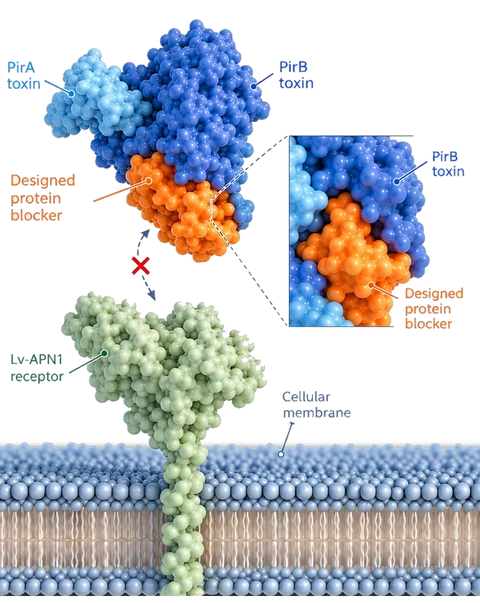
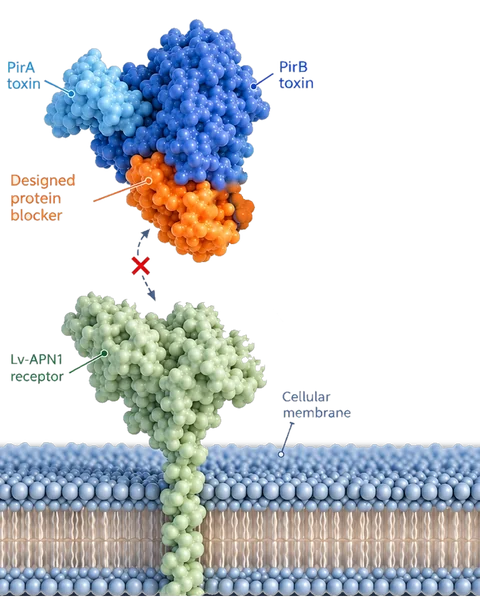
Add files via upload

Changed region(s): [[0.5938, 0.209, 0.9688, 0.5672], [0.4375, 0.2687, 0.5312, 0.4179], [0.5312, 0.2388, 0.5625, 0.2687]]

diff --git a/assets/css/site.css b/assets/css/site.css
@@ -525,23 +525,26 @@ section { position: relative; padding: clamp(72px, 10vw, 128px) 0; }
 .data-sources a { color: var(--on-dark); }
 @media (max-width: 960px) { .data-grid { grid-template-columns: 1fr; } }
 
-/* ---------- Mechanism compare slider ---------- */
-.compare { max-width: 560px; margin: 0 auto; }
+/* ---------- Mechanism of action: A fades into B ---------- */
+.compare { max-width: 560px; margin: 0 auto; --fa: 1; --fb: 0; }
 .compare-stage { position: relative; aspect-ratio: 820 / 1030; border-radius: 16px; overflow: hidden; background: #F7F9FC; border: 1px solid var(--mist); user-select: none; touch-action: pan-y; cursor: ew-resize; }
-.compare-stage img { position: absolute; inset: 0; width: 100%; height: 100%; object-fit: contain; }
-.compare-b { clip-path: inset(0 0 0 var(--pos)); }
-.compare-handle { position: absolute; top: 0; bottom: 0; left: var(--pos); width: 2px; translate: -1px 0; background: #1CD5E7; box-shadow: 0 0 12px rgba(28, 213, 231, .9); pointer-events: none; }
-.compare-handle span { position: absolute; top: 50%; left: 50%; width: 38px; height: 38px; translate: -50% -50%; border-radius: 50%; background: #0B1424; border: 2px solid #1CD5E7; box-shadow: 0 6px 18px rgba(6, 11, 24, .4); }
-.compare-handle span::before { content: "‹ ›"; position: absolute; inset: 0; display: grid; place-items: center; color: #1CD5E7; font: 700 .95rem/1 var(--head); letter-spacing: 2px; }
-.compare-tag { position: absolute; top: 12px; font: 700 .85rem/1 var(--head); color: #fff; background: rgba(11, 20, 36, .8); padding: 7px 10px; border-radius: 8px; }
-.tag-a { left: 12px; } .tag-b { right: 12px; }
-.compare-range { width: 100%; margin: 14px 0 6px; accent-color: #1CD5E7; }
-.compare-legend { display: grid; grid-template-columns: 1fr auto 1fr; gap: 10px; align-items: start; }
-.compare-legend button { background: none; border: 0; padding: 0; text-align: left; cursor: pointer; font: 600 .86rem/1.35 var(--head); color: var(--ink); }
-.compare-legend button:last-child { text-align: right; }
-.compare-legend button:hover strong { color: #0E7490; }
-.compare-hint { font-size: .78rem; color: var(--slate); white-space: nowrap; padding-top: 2px; }
-.compare.anim .compare-b, .compare.anim .compare-handle { transition: clip-path 1.6s cubic-bezier(.4,.1,.2,1), left 1.6s cubic-bezier(.4,.1,.2,1); }
+.compare-stage img { position: absolute; inset: 0; width: 100%; height: 100%; object-fit: contain; pointer-events: none; -webkit-user-drag: none; user-select: none; }
+.compare-a { opacity: var(--fa); }
+.compare-b { opacity: var(--fb); }
+.compare.anim .compare-a, .compare.anim .compare-b, .compare.anim .compare-letter span, .compare.anim .compare-caption span { transition: opacity .9s ease; }
+.compare-letter { position: absolute; left: 14px; bottom: 14px; width: 40px; height: 40px; }
+.compare-letter span { position: absolute; inset: 0; display: grid; place-items: center; border-radius: 10px; background: #0B1424; color: #fff; font: 700 1.05rem/1 var(--head); box-shadow: 0 0 0 2px rgba(28, 213, 231, .5); }
+.compare-letter .la { opacity: var(--fa); }
+.compare-letter .lb { opacity: var(--fb); background: linear-gradient(135deg, #0B1424, #12324A); }
+.compare-bar { display: grid; grid-template-columns: auto 1fr auto; gap: 12px; align-items: center; margin-top: 14px; }
+.cb-end { font: 700 .85rem/1 var(--head); color: var(--ink); }
+.compare-range { width: 100%; margin: 0; accent-color: #1CD5E7; cursor: pointer; }
+.compare-caption { position: relative; margin: 10px 0 0; min-height: 2.8em; font: 600 .92rem/1.4 var(--head); color: var(--ink); text-align: center; }
+.compare-caption span { position: absolute; left: 0; right: 0; top: 0; }
+.compare-caption .cap-a { opacity: var(--fa); }
+.compare-caption .cap-b { opacity: var(--fb); }
+.compare-hint { margin: 2px 0 0; text-align: center; font-size: .78rem; color: var(--slate); }
+.compare.used .compare-hint { visibility: hidden; }
 
 /* ---------- Funding calls: ticker moving left to right ---------- */
 .calls { margin-top: 18px; padding: clamp(22px, 3.5vw, 32px) 0 clamp(22px, 3vw, 28px); border-radius: 24px; background: #0B1424; color: var(--on-dark-muted); position: relative; overflow: hidden; }

diff --git a/assets/js/site.js b/assets/js/site.js
@@ -226,29 +226,32 @@
     window.addEventListener('resize', update); update();
   })();
 
-  /* ---------- Mechanism of action: compare A and B ---------- */
+  /* ---------- Mechanism of action: A fades into B (one panel at a time) ---------- */
   var cmp = document.getElementById('compare');
   if (cmp) (function () {
-    var range = document.getElementById('compareRange'), stage = cmp.querySelector('.compare-stage'), dragging = false;
+    var range = document.getElementById('compareRange'), stage = cmp.querySelector('.compare-stage'), dragging = false, x0 = 0, v0 = 0;
     function set(v, animate) {
-      cmp.classList.toggle('anim', !!animate);
       v = Math.max(0, Math.min(100, v));
-      cmp.style.setProperty('--pos', v + '%'); range.value = Math.round(v);
+      cmp.classList.toggle('anim', !!animate);
+      // steep cross-fade around the middle so the two sets of labels are never shown together for long
+      var k = Math.min(1, Math.max(0, (v - 35) / 30)); k = k * k * (3 - 2 * k);
+      cmp.style.setProperty('--fa', (1 - k).toFixed(3));
+      cmp.style.setProperty('--fb', k.toFixed(3));
+      range.value = Math.round(v);
     }
-    range.addEventListener('input', function () { set(+range.value); });
-    cmp.querySelectorAll('[data-go]').forEach(function (b) { b.addEventListener('click', function () { set(+b.dataset.go, true); }); });
-    function fromEvent(e) { var r = stage.getBoundingClientRect(); return ((e.clientX - r.left) / r.width) * 100; }
-    stage.addEventListener('pointerdown', function (e) { dragging = true; stage.setPointerCapture(e.pointerId); set(fromEvent(e)); });
-    stage.addEventListener('pointermove', function (e) { if (dragging) set(fromEvent(e)); });
-    stage.addEventListener('pointerup', function () { dragging = false; });
-    // When it first comes into view, sweep from A to B and settle in the middle.
-    if ('IntersectionObserver' in window && !reduceMotion) {
-      new IntersectionObserver(function (en, obs) {
-        if (!en[0].isIntersecting) return; obs.disconnect();
-        setTimeout(function () { set(0, true); }, 300);
-        setTimeout(function () { set(50, true); }, 2300);
-      }, { threshold: 0.5 }).observe(cmp);
-    } else set(50);
+    range.addEventListener('input', function () { cmp.classList.add('used'); set(+range.value); });
+    range.addEventListener('change', function () { set(+range.value < 50 ? 0 : 100, true); });
+    stage.addEventListener('pointerdown', function (e) { e.preventDefault(); dragging = true; x0 = e.clientX; v0 = +range.value; stage.setPointerCapture(e.pointerId); });
+    stage.addEventListener('pointermove', function (e) { if (!dragging) return; cmp.classList.add('used'); set(v0 + ((e.clientX - x0) / stage.clientWidth) * 160); });
+    function end(e) {
+      if (!dragging) return; dragging = false;
+      var moved = Math.abs(e.clientX - x0) > 6;
+      // a tap toggles between A and B; a drag settles on the closest panel
+      if (!moved) set(+range.value < 50 ? 100 : 0, true); else set(+range.value < 50 ? 0 : 100, true);
+      cmp.classList.add('used');
+    }
+    stage.addEventListener('pointerup', end); stage.addEventListener('pointercancel', end);
+    set(0);
   })();
 
   /* ---------- Hero: discreet molecular network that reacts to the pointer ---------- */
